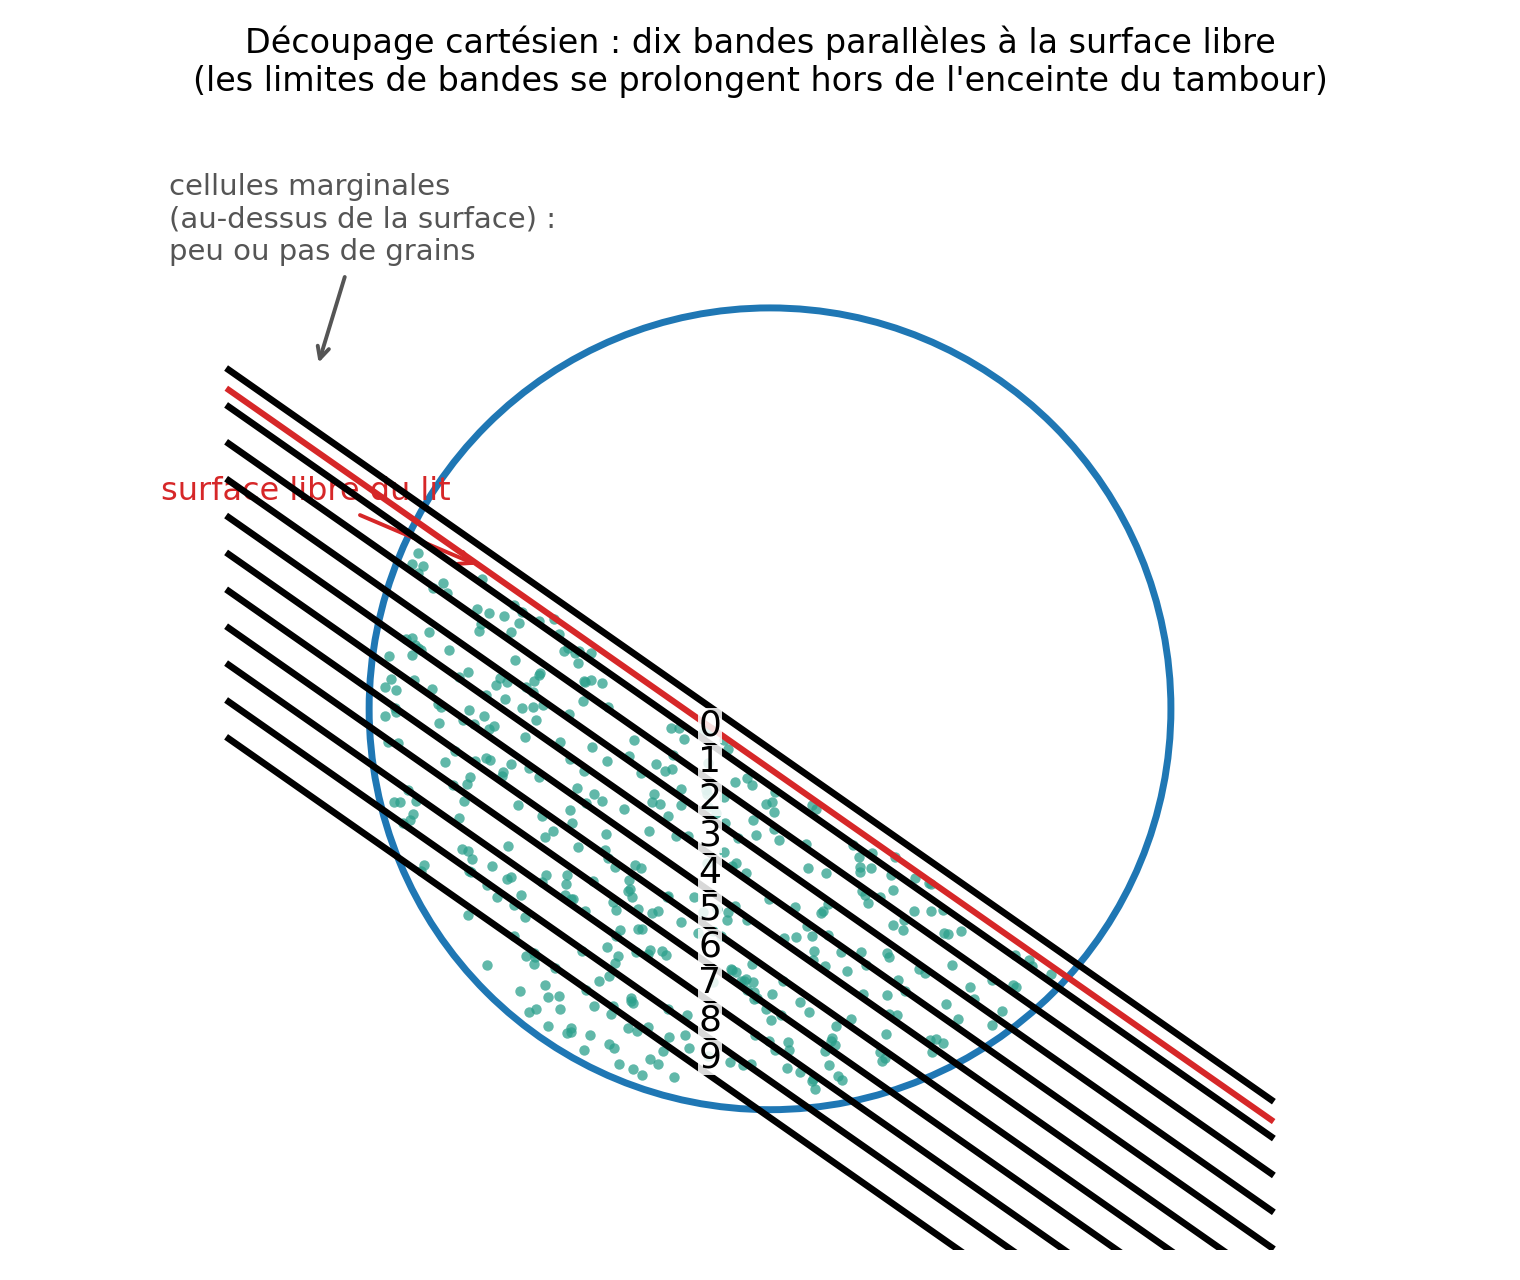
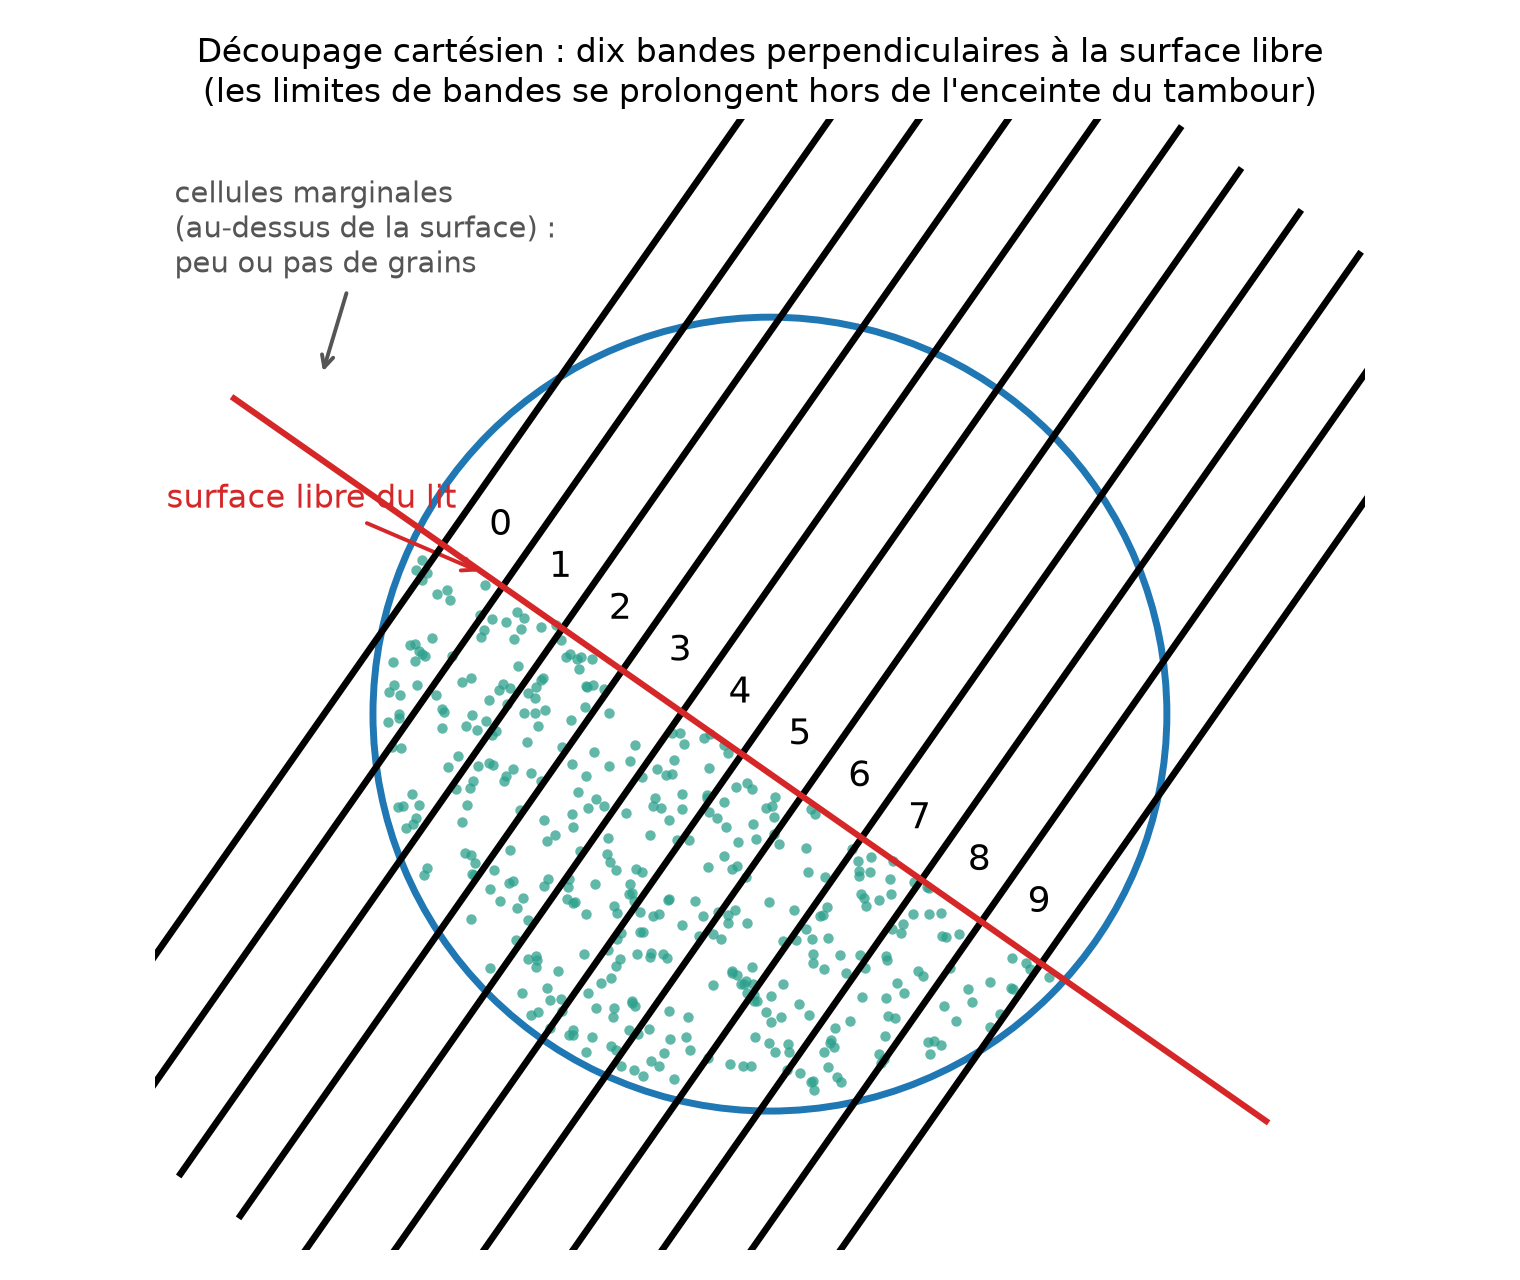
Générer le schéma cartésien perpendiculaire

diff --git a/postprocessing/figures_rapport_schemas.py b/postprocessing/figures_rapport_schemas.py
@@ -220,6 +220,8 @@ def schema_cartesien():
     normal = np.array([np.sin(a), np.cos(a)])
     tangent = np.array([np.cos(a), -np.sin(a)])
     cs = np.linspace(-0.92 * R, 0.92 * R, nbands + 1)
+    # segment utilisé pour tracer la surface libre et ses annotations
+    xl = np.array([-1.35 * R, 1.25 * R])
     for c in cs:
         p0 = c * tangent
         p1, p2 = p0 - 1.8 * R * normal, p0 + 1.8 * R * normal
